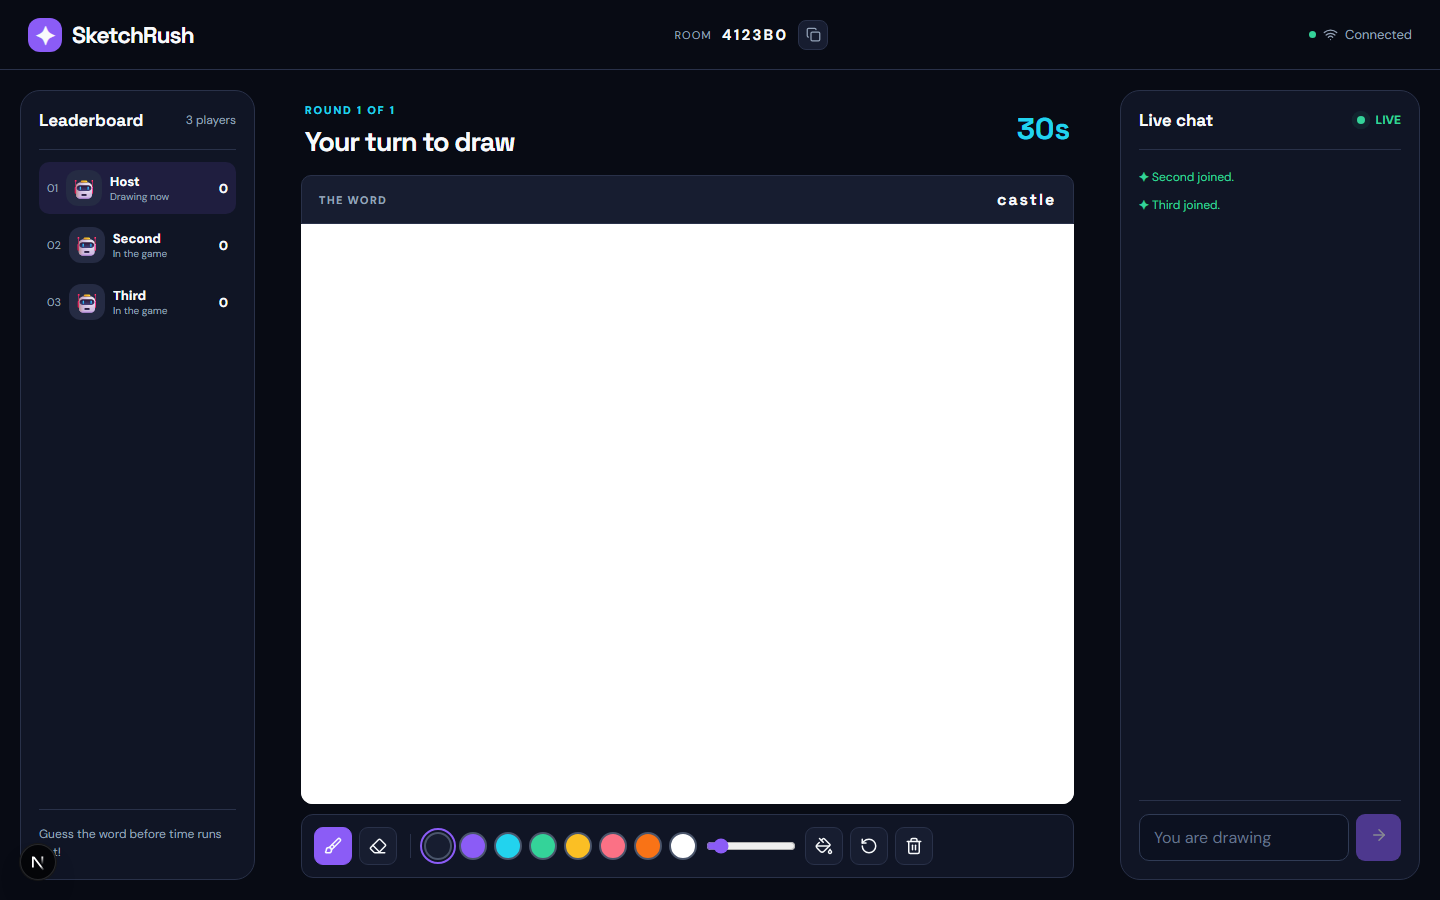
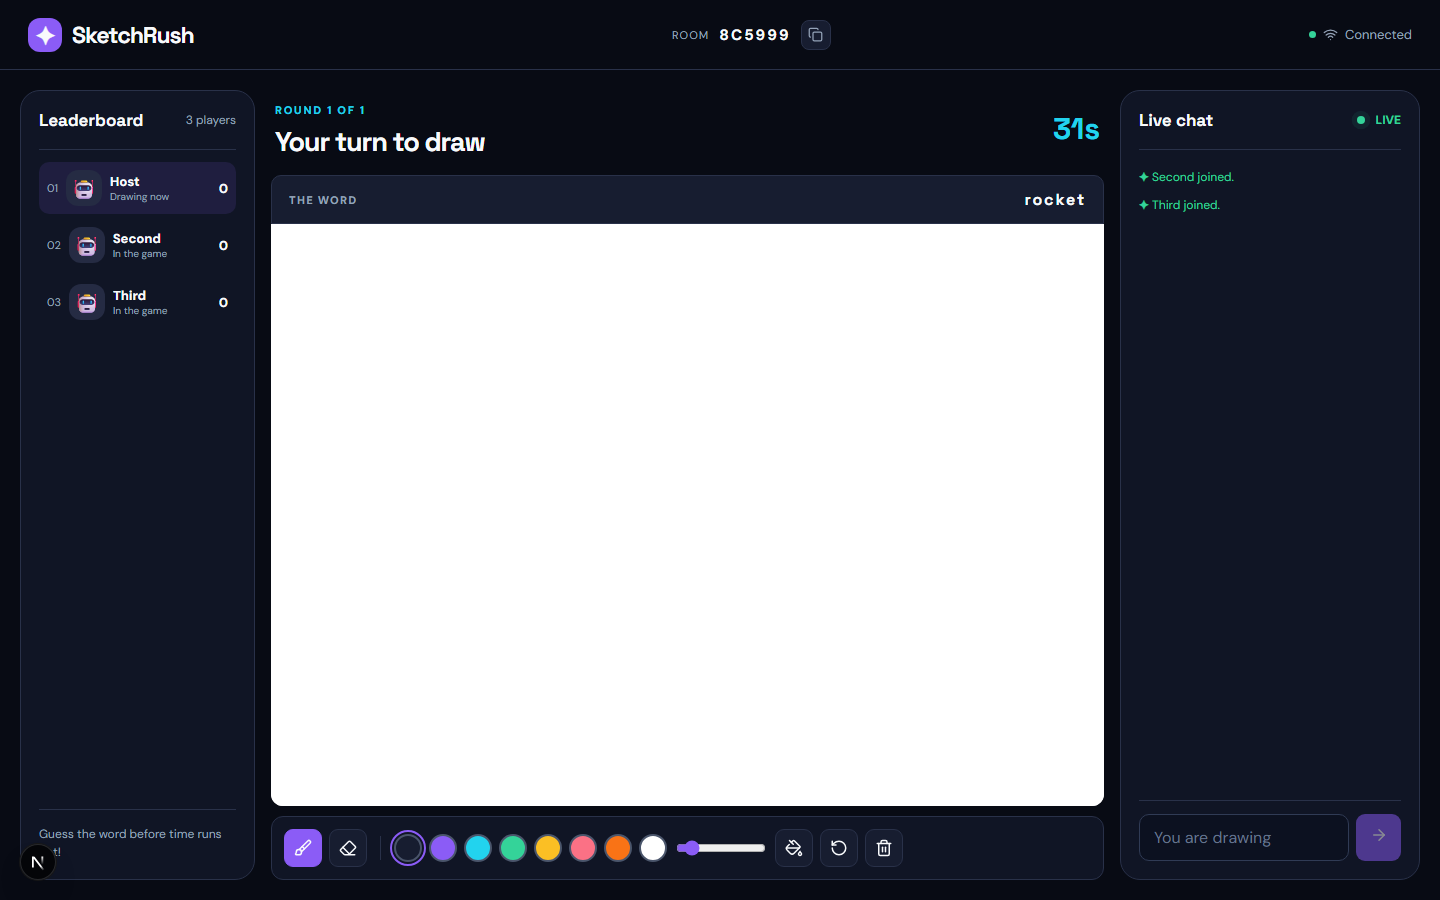
Expand desktop drawing canvas to middle column

diff --git a/src/app/globals.css b/src/app/globals.css
@@ -2,12 +2,12 @@
 :root{--bg:#080b14;--secondary:#101525;--surface:#171d30;--line:#293149;--purple:#8b5cf6;--cyan:#22d3ee;--green:#34d399;--yellow:#fbbf24;--red:#fb7185;--text:#f8fafc;--muted:#94a3b8;--radius:20px}*{box-sizing:border-box}html,body{margin:0;min-height:100%;background:var(--bg);color:var(--text);font-family:'DM Sans',sans-serif}button,input,select,textarea{font:inherit}button{cursor:pointer}button:disabled{opacity:.5;cursor:not-allowed}button:focus-visible,input:focus-visible,select:focus-visible,textarea:focus-visible,a:focus-visible{outline:3px solid var(--cyan);outline-offset:3px}a{color:inherit;text-decoration:none}.container{width:min(1180px,calc(100% - 48px));margin:auto}.brand{font-family:'Space Grotesk',sans-serif;font-weight:700;font-size:23px;letter-spacing:-1px;display:flex;align-items:center;gap:10px}.brand-mark{display:grid;place-items:center;background:var(--purple);border-radius:12px;width:34px;height:34px;font-size:24px}.nav,.game-nav{height:88px;display:flex;align-items:center;justify-content:space-between}.nav-tag,.eyebrow{font-size:11px;letter-spacing:.16em;font-weight:800;color:var(--cyan)}.nav-tag{color:var(--muted)}.hero{display:grid;grid-template-columns:1fr 470px;align-items:center;gap:8%;padding:78px 0 98px}.hero-copy h1,.lobby-intro h1{font-family:'Space Grotesk',sans-serif;font-size:clamp(60px,7vw,100px);line-height:.99;letter-spacing:-.07em;margin:26px 0}.hero-copy h1 span,.lobby-intro em{color:var(--purple);font-style:normal}.hero-copy p,.lobby-intro p{color:var(--muted);font-size:18px;line-height:1.65;max-width:475px}.hero-pills{display:flex;flex-wrap:wrap;gap:10px;margin-top:36px}.hero-pills span{border:1px solid var(--line);border-radius:100px;padding:9px 14px;color:#cbd5e1;font-size:13px}.live-dot{display:inline-block;width:8px;height:8px;border-radius:50%;background:var(--green);box-shadow:0 0 0 4px #34d39920;margin-right:8px}.entry-card,.lobby-card,.panel{background:var(--secondary);border:1px solid var(--line);border-radius:var(--radius)}.entry-card{padding:30px;box-shadow:0 28px 90px #0005}.card-top{display:flex;align-items:center;gap:16px;margin-bottom:26px}.card-icon{width:50px;height:50px;border-radius:16px;background:#8b5cf626;color:#a78bfa;display:grid;place-items:center}.card-top h2{font-family:'Space Grotesk';font-size:23px;margin:5px 0 0}.tabs{display:grid;grid-template-columns:1fr 1fr;background:#080b14;border-radius:12px;padding:4px;margin-bottom:22px}.tabs button{border:0;background:none;color:var(--muted);padding:12px;border-radius:9px;font-weight:700}.tabs button.selected{background:var(--surface);color:var(--text)}label,.form-label{display:block;font-size:13px;font-weight:700;color:#dbe3ef;margin:14px 0 8px}label small{font-weight:400;color:var(--muted)}input:not([type=range]),textarea,select{display:block;width:100%;margin-top:9px;padding:12px 14px;background:#0c1120;border:1px solid #303b55;border-radius:10px;color:var(--text);outline:none}input::placeholder,textarea::placeholder{color:#64748b}.avatars{display:flex;gap:9px}.avatars button{border:1px solid var(--line);background:var(--surface);width:46px;height:46px;border-radius:12px;font-size:22px}.avatars button.active{border-color:var(--purple);box-shadow:0 0 0 2px #8b5cf644}.form-grid{display:grid;grid-template-columns:1fr 1fr;gap:14px}.primary-button,.secondary-button{display:flex;align-items:center;justify-content:center;gap:10px;width:100%;min-height:48px;border-radius:11px;border:0;font-weight:800}.primary-button{background:var(--purple);color:#fff;margin-top:22px}.primary-button:hover{background:#9d75f8}.secondary-button{width:auto;padding:0 20px;color:#fff;background:var(--surface);border:1px solid var(--line)}.secondary-button:hover{border-color:var(--purple)}.card-foot{text-align:center;color:var(--muted);font-size:12px;margin:16px 0 0}.form-error{color:var(--red);font-size:13px}.how{border-top:1px solid var(--line);padding:65px 0 90px}.how h2{font-family:'Space Grotesk';font-size:36px;letter-spacing:-.04em;margin:12px 0 30px}.how-grid{display:grid;grid-template-columns:repeat(3,1fr);gap:16px}.how article{background:var(--secondary);border:1px solid var(--line);border-radius:16px;padding:26px}.how article span{color:var(--purple);font-weight:800}.how h3{font-family:'Space Grotesk';margin:25px 0 8px}.how p,.footer{color:var(--muted);line-height:1.6}.footer{border-top:1px solid var(--line);padding:24px 0;display:flex;justify-content:space-between;font-size:13px}.game-nav{padding:0 28px;border-bottom:1px solid var(--line);height:70px}.room-code{font-size:11px;letter-spacing:.1em;color:var(--muted);display:flex;align-items:center;gap:10px}.room-code strong{color:var(--text);letter-spacing:.15em;font-size:15px}.room-code button{background:var(--surface);color:var(--muted);border:1px solid var(--line);border-radius:8px;width:30px;height:30px;display:grid;place-items:center}.connection{display:flex;gap:7px;align-items:center;text-transform:capitalize;color:var(--muted);font-size:13px}.connection span,.presence{height:7px;width:7px;border-radius:50%;background:var(--red)}.connection.connected span,.presence.online{background:var(--green)}.lobby{display:grid;grid-template-columns:1fr 440px;gap:8%;padding-top:110px}.lobby-intro h1{font-size:clamp(54px,6vw,80px)}.lobby-intro .secondary-button{margin-top:30px}.lobby-card{padding:26px;align-self:start}.panel-heading{display:flex;justify-content:space-between;align-items:center;border-bottom:1px solid var(--line);padding-bottom:18px}.panel-heading h2{font-family:'Space Grotesk';font-size:17px;display:flex;align-items:center;gap:9px;margin:0}.panel-heading h2 span,.panel-heading>span{color:var(--muted);font-family:'DM Sans';font-size:12px}.live-label{color:var(--green)!important;font-weight:800}.player-list{padding:12px 0}.player-row{display:flex;align-items:center;gap:12px;padding:10px 0}.player-row strong{flex:1}.player-row small{font-weight:400;color:var(--muted)}.avatar{display:grid;place-items:center;width:42px;height:42px;border-radius:12px;background:#252b43;font-size:22px;flex:none}.host-badge{color:var(--yellow);background:#fbbf241c;padding:5px 7px;border-radius:5px;font-size:10px;font-weight:800;letter-spacing:.08em}.settings-summary{display:flex;gap:10px;border-top:1px solid var(--line);padding-top:18px}.settings-summary span{background:var(--surface);padding:8px 10px;border-radius:8px;color:var(--muted);font-size:12px}.waiting{text-align:center;color:var(--muted);margin:30px 0 10px}.game-layout{display:grid;grid-template-columns:minmax(205px,235px) minmax(0,1fr) minmax(250px,300px);gap:16px;max-width:1600px;margin:auto;padding:20px;min-height:calc(100dvh - 70px)}.panel{display:flex;flex-direction:column;min-height:0;padding:18px}.scores{display:grid;gap:5px;margin-top:12px}.score-row{display:flex;align-items:center;gap:8px;padding:8px;border-radius:10px}.score-row.drawer-row{background:#8b5cf620}.score-row .avatar{width:36px;height:36px;font-size:19px}.score-row .rank{font-size:11px;color:var(--muted)}.score-row div{min-width:0;flex:1}.score-row strong{font-size:13px;overflow:hidden;text-overflow:ellipsis;display:block}.score-row small{display:block;font-size:10px;color:var(--muted);white-space:nowrap}.score-row b{font-size:13px}.panel-note{margin-top:auto;border-top:1px solid var(--line);padding-top:15px;color:var(--muted);font-size:12px;line-height:1.5}.center-panel{min-width:0}.game-heading{display:flex;align-items:center;justify-content:space-between;padding:8px 4px 16px}.game-heading h1{font-family:'Space Grotesk';font-size:27px;letter-spacing:-.04em;margin:5px 0 0}.timer{font-family:'Space Grotesk';font-size:30px;font-weight:700;color:var(--cyan)}.timer.urgent{color:var(--red)}.word-strip{display:flex;justify-content:space-between;align-items:center;background:var(--surface);border:1px solid var(--line);border-radius:10px 10px 0 0;padding:13px 17px}.word-strip span{font-size:11px;font-weight:800;letter-spacing:.12em;color:var(--muted)}.word-strip strong{font-family:'Space Grotesk';letter-spacing:.12em}.canvas-frame{position:relative;aspect-ratio:4/3;background:#fff;border-radius:0 0 12px 12px;overflow:hidden}.drawing-canvas{display:block;width:100%;height:100%;touch-action:none}.drawing-canvas.drawable{cursor:crosshair}.canvas-overlay{position:absolute;inset:0;background:#080b14e8;display:flex;flex-direction:column;align-items:center;justify-content:center;text-align:center;padding:24px}.canvas-overlay h2{font-family:'Space Grotesk';font-size:26px;margin:0}.canvas-overlay p{color:var(--muted)}.word-choices{display:flex;gap:10px;margin-top:18px;flex-wrap:wrap;justify-content:center}.word-choices button{display:flex;align-items:center;gap:12px;padding:15px 20px;border:1px solid var(--purple);border-radius:12px;background:var(--surface);color:#fff;font-weight:800}.word-choices button:hover{background:#8b5cf644}.results>span{font-size:60px}.toolbar{display:flex;align-items:center;flex-wrap:wrap;gap:7px;padding:12px;background:var(--secondary);border:1px solid var(--line);border-radius:12px;margin-top:10px}.tool{width:38px;height:38px;display:grid;place-items:center;background:var(--surface);color:var(--text);border:1px solid var(--line);border-radius:9px}.tool.active{background:var(--purple);border-color:var(--purple)}.tool-divider{width:1px;height:24px;background:var(--line);margin:0 6px}.swatch{height:28px;width:28px;border:2px solid #4a556b;border-radius:50%}.swatch.selected{outline:2px solid var(--purple);outline-offset:2px}.toolbar input[type=range]{width:90px;accent-color:var(--purple)}.chat-panel{height:calc(100dvh - 110px);min-height:450px}.messages{flex:1;overflow:auto;display:flex;flex-direction:column;gap:10px;padding:18px 0}.message{font-size:13px;line-height:1.5;overflow-wrap:anywhere}.message span{font-weight:800;color:var(--cyan)}.message.system{color:var(--green);font-size:12px}.message.system span{color:var(--green)}.chat-form{display:flex;gap:7px;border-top:1px solid var(--line);padding-top:13px}.chat-form input{margin:0;min-width:0}.chat-form button{width:45px;flex:none;border:0;border-radius:9px;background:var(--purple);color:#fff}.banner{padding:10px 25px;background:#8b5cf633;text-align:center;color:#ddd6fe}.banner.error{background:#fb718533;color:#ffe4e6}.banner button{margin-left:16px;background:none;border:0;color:inherit;text-decoration:underline}.toast{position:fixed;z-index:10;top:78px;left:50%;transform:translateX(-50%);padding:11px 18px;border-radius:9px;background:var(--green);color:#071b16;font-weight:800;box-shadow:0 12px 30px #0008}.replay-list{padding:16px;background:var(--secondary);border-radius:12px;margin-top:10px}.replay-list h3{margin:0 0 10px}.replay-list>button{display:inline-flex;gap:8px;align-items:center;margin:5px;padding:8px 12px;background:var(--surface);border:1px solid var(--line);border-radius:7px;color:#fff}.replay-controls{display:flex;align-items:center;gap:12px;margin-top:12px}.replay-controls input{flex:1}.replay-controls button{background:var(--purple);border:0;border-radius:7px;color:#fff;padding:9px}.error-page{min-height:100dvh;display:grid;place-content:center;text-align:center}.error-page button{padding:12px;background:var(--purple);border:0;border-radius:8px;color:#fff}@media(max-width:1100px){.game-layout{grid-template-columns:1fr 280px}.players-panel{grid-column:1/-1;min-height:auto}.scores{display:flex;overflow:auto}.score-row{min-width:160px}.panel-note{display:none}.hero{gap:4%;grid-template-columns:1fr 430px}}@media(max-width:760px){.container{width:min(100% - 32px,540px)}.nav{height:70px}.nav-tag{display:none}.hero{grid-template-columns:1fr;padding:48px 0 60px;gap:38px}.hero-copy h1{font-size:clamp(60px,15vw,80px)}.hero-copy p{font-size:16px}.entry-card{padding:22px}.how-grid{grid-template-columns:1fr}.how{padding:45px 0}.footer{display:block}.footer span{display:block}.lobby{grid-template-columns:1fr;padding:50px 0;gap:35px}.lobby-intro h1{font-size:64px}.game-nav{padding:0 14px}.game-nav .brand{font-size:17px}.game-nav .brand-mark{width:28px;height:28px}.room-code{font-size:0}.room-code strong{font-size:12px}.connection{font-size:0}.game-layout{display:flex;flex-direction:column;padding:12px;gap:10px}.center-panel{order:0}.players-panel{order:1}.chat-panel{order:2;height:350px;min-height:350px}.game-heading h1{font-size:20px}.game-heading .timer{font-size:24px}.canvas-frame{aspect-ratio:4/3}.word-strip{padding:10px 12px}.toolbar{gap:6px}.swatch{width:24px;height:24px}.tool{width:36px;height:36px}.players-panel{padding:14px}.scores{margin-top:7px}.chat-panel{padding:14px}.messages{min-height:180px}}@media(prefers-reduced-motion:no-preference){.live-dot{animation:pulse 2s infinite}@keyframes pulse{50%{box-shadow:0 0 0 7px #34d39908}}}
 @media(max-width:760px){.toolbar .tool,.toolbar .swatch,.room-code button{width:44px;height:44px;min-width:44px;min-height:44px}}
 
-/* Keep the desktop game inside the viewport while preserving the shared 4:3 canvas. */
+/* Fill the desktop middle column and size its canvas to the available screen height. */
 @media (min-width:1101px) and (min-height:600px){
   .game-layout{height:calc(100dvh - 70px);min-height:0;overflow:hidden;align-items:stretch}
   .players-panel,.chat-panel{height:100%;min-height:0}
   .messages{min-height:0}
-  .center-panel{width:min(100%,calc((100dvh - 260px)*4/3));height:100%;min-height:0;margin-inline:auto;overflow:auto}
-  .center-panel:has(.toolbar){width:min(100%,calc((100dvh - 320px)*4/3))}
-  .center-panel:has(.replay-list){width:min(100%,calc((100dvh - 350px)*4/3))}
+  .center-panel{width:100%;height:100%;min-height:0;display:flex;flex-direction:column;overflow:auto}
+  .game-heading,.word-strip,.toolbar,.replay-list{flex:none}
+  .canvas-frame{aspect-ratio:auto;flex:1;min-height:0}
 }

diff --git a/test/browser/game.spec.ts b/test/browser/game.spec.ts
@@ -19,7 +19,7 @@ test('desktop drawing layout fits the screen beside both panels',async({browser}
       for(const page of pages)await page.setViewportSize(viewport);
       for(const page of [pages[drawer],pages[(drawer+1)%3]]){
         const layout=await page.evaluate(()=>{
-          const rect=(selector:string)=>{const {top,bottom,width,height}=document.querySelector(selector)!.getBoundingClientRect();return {top,bottom,width,height};};
+          const rect=(selector:string)=>{const {top,bottom,left,right,width,height}=document.querySelector(selector)!.getBoundingClientRect();return {top,bottom,left,right,width,height};};
           return {screen:innerHeight,scrollHeight:document.documentElement.scrollHeight,players:rect('.players-panel'),chat:rect('.chat-panel'),canvas:rect('.canvas-frame'),center:rect('.center-panel'),toolbar:document.querySelector('.toolbar')?rect('.toolbar'):null};
         });
         expect(layout.scrollHeight).toBeLessThanOrEqual(layout.screen+1);
@@ -27,7 +27,9 @@ test('desktop drawing layout fits the screen beside both panels',async({browser}
         expect(layout.chat.bottom).toBeLessThanOrEqual(layout.screen+1);
         expect(Math.abs(layout.players.bottom-layout.chat.bottom)).toBeLessThan(2);
         expect(layout.canvas.bottom).toBeLessThanOrEqual(layout.screen+1);
-        expect(Math.abs(layout.canvas.width/layout.canvas.height-4/3)).toBeLessThan(.01);
+        expect(Math.abs(layout.canvas.width-layout.center.width)).toBeLessThan(2);
+        expect(layout.center.left-layout.players.right).toBeLessThan(30);
+        expect(layout.chat.left-layout.center.right).toBeLessThan(30);
         if(layout.toolbar)expect(layout.toolbar.bottom).toBeLessThanOrEqual(layout.screen+1);
         if(page===pages[drawer])await page.screenshot({path:`artifacts/desktop-fit-${viewport.width}.png`});
       }
